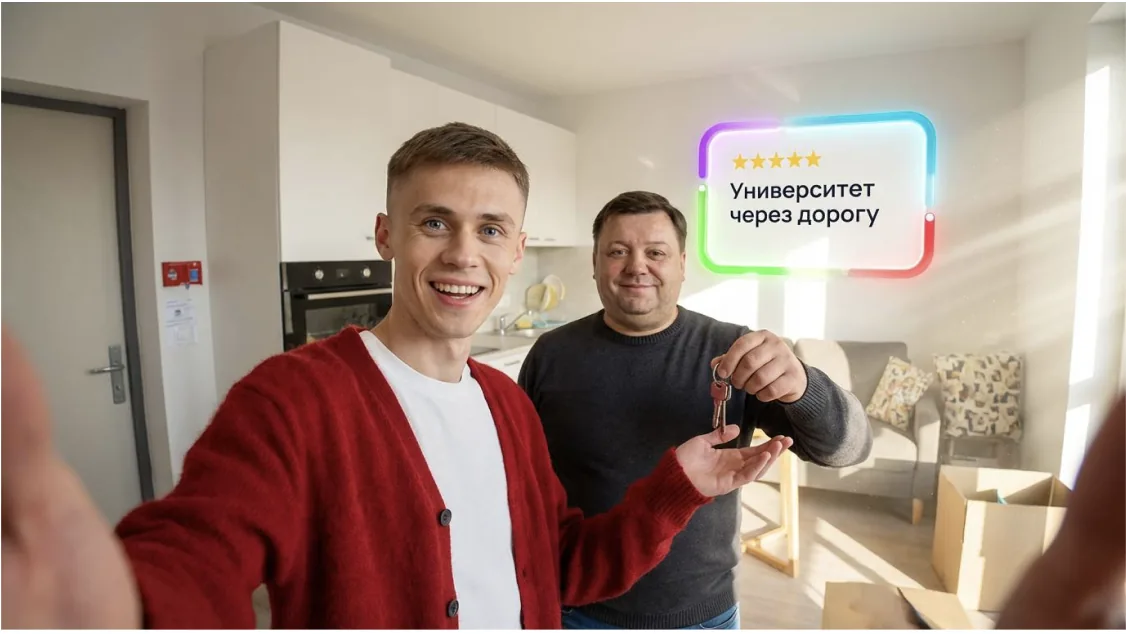
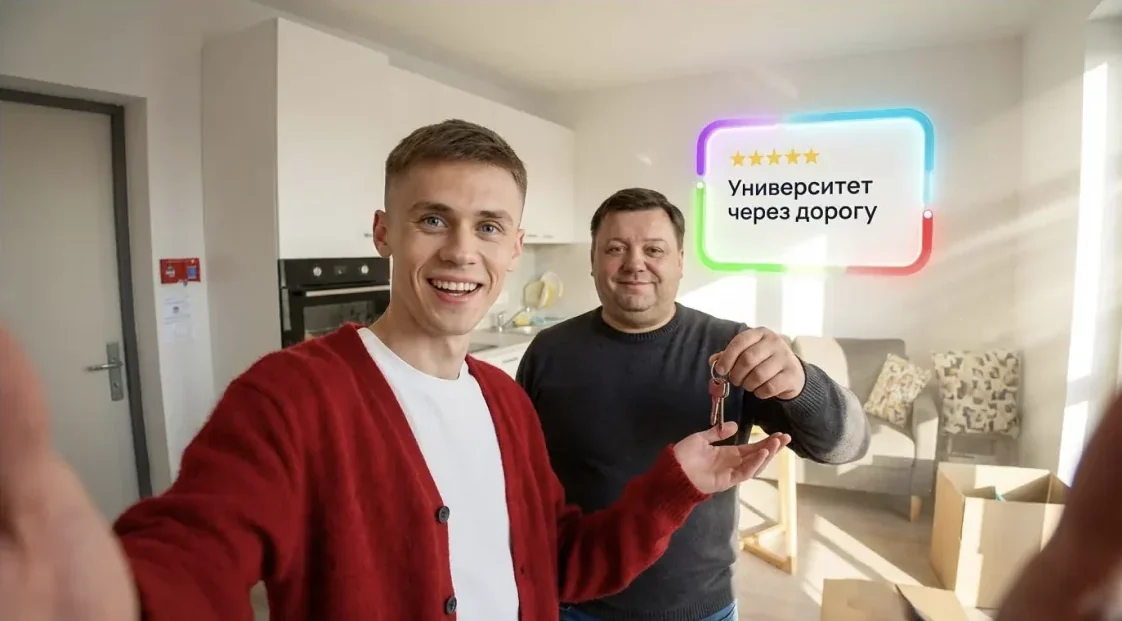
Avito frames carousel with edge strips cropped; stronger haze breathing
Claude-Session: https://claude.ai/code/session_01TTUgRVomWUN1St841d1hJF

diff --git a/ai-production.html b/ai-production.html
@@ -22,7 +22,7 @@
 <link rel="preconnect" href="https://fonts.googleapis.com">
 <link rel="preconnect" href="https://fonts.gstatic.com" crossorigin>
 <link rel="stylesheet" href="https://fonts.googleapis.com/css2?family=Noto+Serif:wght@400;600&family=Cormorant+Garamond:ital,wght@1,300&family=Silkscreen&family=Anta&display=swap">
-<link rel="stylesheet" href="css/style.css?v=2611180327">
+<link rel="stylesheet" href="css/style.css?v=2611180350">
 </head>
 <body class="ai">
 <div class="preloader" aria-hidden="true">
@@ -131,17 +131,19 @@
     </div>
     <div class="rule" style="margin-top:30px"></div>
 
-    <div class="avito-grid" data-gallery="avito">
-      <div class="shots reveal">
-        <button type="button" data-full="img/avito-1.webp"><img src="img/avito-1-sm.webp" alt="Avito Real Estate video frame: mother, child and dog at home" loading="lazy"></button>
-        <button type="button" data-full="img/avito-2.webp"><img src="img/avito-2-sm.webp" alt="Avito Real Estate video frame: two men taking a selfie" loading="lazy"></button>
-        <button type="button" data-full="img/avito-3.webp"><img src="img/avito-3-sm.webp" alt="Avito Real Estate video frame: split-screen opening" loading="lazy"></button>
+    <div class="process frames reveal" data-gallery="avito">
+      <p class="mini-label"><span>Frames</span><i></i><span>04</span></p>
+      <div class="frames-track carousel" tabindex="0" aria-label="Video frames and storyboard, swipe for more">
+        <button type="button" data-full="img/avito-1.webp"><img src="img/avito-1-sm.webp" width="900" height="502" alt="Avito Real Estate video frame: mother, child and dog at home" loading="lazy"></button>
+        <button type="button" data-full="img/avito-2.webp"><img src="img/avito-2-sm.webp" width="896" height="495" alt="Avito Real Estate video frame: two men taking a selfie" loading="lazy"></button>
+        <button type="button" data-full="img/avito-3.webp"><img src="img/avito-3-sm.webp" width="894" height="492" alt="Avito Real Estate video frame: split-screen opening" loading="lazy"></button>
+        <button type="button" data-full="img/avito-storyboard.webp"><img src="img/avito-storyboard-sm.webp" width="732" height="968" alt="Storyboard board for the Avito video" loading="lazy"></button>
       </div>
-      <div class="side reveal">
-        <button type="button" data-full="img/avito-storyboard.webp"><img src="img/avito-storyboard-sm.webp" alt="Storyboard board for the Avito video" loading="lazy"></button>
-        <div class="copy"><p class="lead">Three scenes animated from scratch, a split-screen opening and native Avito widgets.</p>
-      <details class="more"><summary></summary><div><p>We developed and animated from scratch three main, distinct scenes of the video script, as well as the split-screen opening sequence. Special Avito widgets were integrated seamlessly, and we prepared multiple versions of the video (10, 15, and 20 seconds) while optimizing them for different platforms and devices. In addition, we generated vertical formats to ensure the content was fully adaptable across all social and digital channels.</p></div></details></div>
-      </div>
+      <div class="car-nav"><button type="button" class="prev" aria-label="Previous frame">←</button><span class="bar"><i></i></span><button type="button" class="nxt" aria-label="Next frame">→</button></div>
+    </div>
+    <div class="copy center reveal" style="margin-top:24px">
+      <p class="lead">Three scenes animated from scratch, a split-screen opening and native Avito widgets.</p>
+      <details class="more"><summary></summary><div><p>We developed and animated from scratch three main, distinct scenes of the video script, as well as the split-screen opening sequence. Special Avito widgets were integrated seamlessly, and we prepared multiple versions of the video (10, 15, and 20 seconds) while optimizing them for different platforms and devices. In addition, we generated vertical formats to ensure the content was fully adaptable across all social and digital channels.</p></div></details>
     </div>
 
     <div class="process reveal">
@@ -168,6 +170,6 @@
   </div>
 </footer>
 
-<script src="js/main.js?v=2611180327"></script>
+<script src="js/main.js?v=2611180350"></script>
 </body>
 </html>

diff --git a/css/style.css b/css/style.css
@@ -265,9 +265,9 @@ a { color: inherit; text-decoration: none; }
   transition: opacity 1.6s ease .55s, transform 1.8s cubic-bezier(.2,.8,.2,1) .55s, filter 1.8s ease .55s, clip-path 1.8s cubic-bezier(.3,.7,.2,1) .55s;
 }
 .js .phone.reveal.in button { opacity: 1; transform: none; }
-.js .phone.reveal.in .glow { opacity: 1; transform: scaleX(var(--fx, 1)); filter: none; clip-path: inset(0 round 0); animation: haze 5.5s ease-in-out 2.6s infinite; }
-.js .phone.flip.reveal.in .glow { animation-delay: 3.4s; }
-@keyframes haze { 0%, 100% { opacity: 1; transform: scaleX(var(--fx, 1)) scale(1); } 50% { opacity: .62; transform: scaleX(var(--fx, 1)) scale(1.035); } }
+.js .phone.reveal.in .glow { opacity: 1; transform: scaleX(var(--fx, 1)); filter: none; clip-path: inset(0 round 0); animation: haze 4.6s ease-in-out 2.6s infinite; }
+.js .phone.flip.reveal.in .glow { animation-delay: 3.6s; }
+@keyframes haze { 0%, 100% { opacity: 1; transform: scaleX(var(--fx, 1)) scale(1); filter: brightness(1.15); } 50% { opacity: .3; transform: scaleX(var(--fx, 1)) scale(1.09); filter: brightness(.85); } }
 .phone button { position: absolute; inset: 10% 19% 10% 19%; padding: 0; border: 0; background: none; cursor: zoom-in; border-radius: 9% / 6%; overflow: hidden; }
 .phone button img { width: 100%; height: 100%; object-fit: cover; transition: transform .6s ease; }
 .phone button:hover img { transform: scale(1.05); }
@@ -283,6 +283,13 @@ a { color: inherit; text-decoration: none; }
 @media (max-width: 640px) { .logos { grid-template-columns: repeat(2, 1fr); } }
 
 .works { margin-top: clamp(36px, 5vw, 64px); }
+/* Avito frames: equal height, natural width, like a strip of film */
+.frames .mini-label { margin-top: 0; }
+.frames-track { margin-top: 18px; display: flex; gap: 14px; overflow-x: auto; scroll-snap-type: x mandatory; scroll-behavior: smooth; scrollbar-width: none; overscroll-behavior-x: contain; }
+.frames-track::-webkit-scrollbar { display: none; }
+.frames-track button { flex: none; scroll-snap-align: start; height: clamp(190px, 26vw, 340px); padding: 0; border: 1px solid #ffffff14; background: #111; cursor: zoom-in; overflow: hidden; }
+.frames-track img { height: 100%; width: auto; max-width: none; display: block; transition: transform .6s ease; }
+.frames-track button:hover img { transform: scale(1.04); }
 .works .mini-label { margin-top: 0; }
 /* Selected works carousel: same mechanics as the process carousel */
 .gallery.carousel { margin-top: 18px; display: grid; grid-auto-flow: column; grid-auto-columns: calc((100% - 3 * 14px) / 4); gap: 14px;

diff --git a/js/main.js b/js/main.js
@@ -336,7 +336,7 @@
     const track = box.querySelector('.carousel'), bar = box.querySelector('.bar i');
     const prev = box.querySelector('.prev'), nxt = box.querySelector('.nxt');
     if (!track) return;
-    const step = () => { const it = track.firstElementChild; return it ? it.getBoundingClientRect().width + 14 : track.clientWidth; };
+    const step = () => { const it = track.firstElementChild; return Math.min(it ? it.getBoundingClientRect().width + 14 : 1e9, track.clientWidth * .85); };
     const update = () => {
       const max = track.scrollWidth - track.clientWidth;
       const vis = track.clientWidth / track.scrollWidth;
@@ -347,6 +347,8 @@
     prev.addEventListener('click', () => track.scrollBy({ left: -step(), behavior: 'smooth' }));
     nxt.addEventListener('click', () => track.scrollBy({ left: step(), behavior: 'smooth' }));
     track.addEventListener('scroll', update, { passive: true });
+    track.querySelectorAll('img').forEach((im) => im.addEventListener('load', update));
+    if ('ResizeObserver' in window) new ResizeObserver(update).observe(track);
     addEventListener('resize', update);
     update();
   });

diff --git a/photography.html b/photography.html
@@ -22,8 +22,8 @@
 <link rel="preconnect" href="https://fonts.googleapis.com">
 <link rel="preconnect" href="https://fonts.gstatic.com" crossorigin>
 <link rel="stylesheet" href="https://fonts.googleapis.com/css2?family=Noto+Serif:wght@400;600&family=Cormorant+Garamond:ital,wght@1,300&family=Silkscreen&family=DM+Serif+Display&family=IBM+Plex+Mono&display=swap">
-<link rel="stylesheet" href="css/style.css?v=2611180327">
-<link rel="stylesheet" href="css/photo.css?v=2611180327">
+<link rel="stylesheet" href="css/style.css?v=2611180350">
+<link rel="stylesheet" href="css/photo.css?v=2611180350">
 </head>
 <body class="photo">
 <div class="preloader" aria-hidden="true">
@@ -86,6 +86,6 @@
   </div>
 </footer>
 
-<script src="js/main.js?v=2611180327"></script>
+<script src="js/main.js?v=2611180350"></script>
 </body>
 </html>

diff --git a/art-design.html b/art-design.html
@@ -22,7 +22,7 @@
 <link rel="preconnect" href="https://fonts.googleapis.com">
 <link rel="preconnect" href="https://fonts.gstatic.com" crossorigin>
 <link rel="stylesheet" href="https://fonts.googleapis.com/css2?family=Noto+Serif:wght@400;600&family=Cormorant+Garamond:ital,wght@1,300&family=Silkscreen&display=swap">
-<link rel="stylesheet" href="css/style.css?v=2611180327">
+<link rel="stylesheet" href="css/style.css?v=2611180350">
 </head>
 <body>
 <div class="preloader" aria-hidden="true">
@@ -50,6 +50,6 @@
     <a class="home-link" href="index.html"><i class="arrow l">←</i> Home</a>
   </div>
 </main>
-<script src="js/main.js?v=2611180327"></script>
+<script src="js/main.js?v=2611180350"></script>
 </body>
 </html>

diff --git a/index.html b/index.html
@@ -22,7 +22,7 @@
 <link rel="preconnect" href="https://fonts.googleapis.com">
 <link rel="preconnect" href="https://fonts.gstatic.com" crossorigin>
 <link rel="stylesheet" href="https://fonts.googleapis.com/css2?family=Noto+Serif:wght@400;600&family=Silkscreen&display=swap">
-<link rel="stylesheet" href="css/style.css?v=2611180327">
+<link rel="stylesheet" href="css/style.css?v=2611180350">
 </head>
 <body>
 <div class="preloader" aria-hidden="true">
@@ -85,6 +85,6 @@
   </section>
 </main>
 
-<script src="js/main.js?v=2611180327"></script>
+<script src="js/main.js?v=2611180350"></script>
 </body>
 </html>
